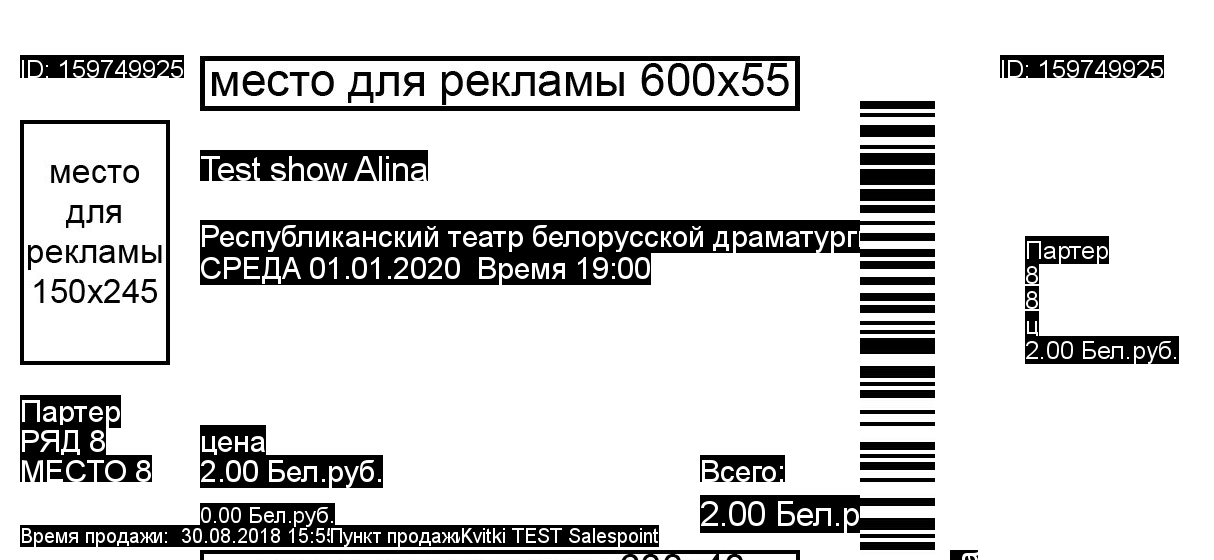
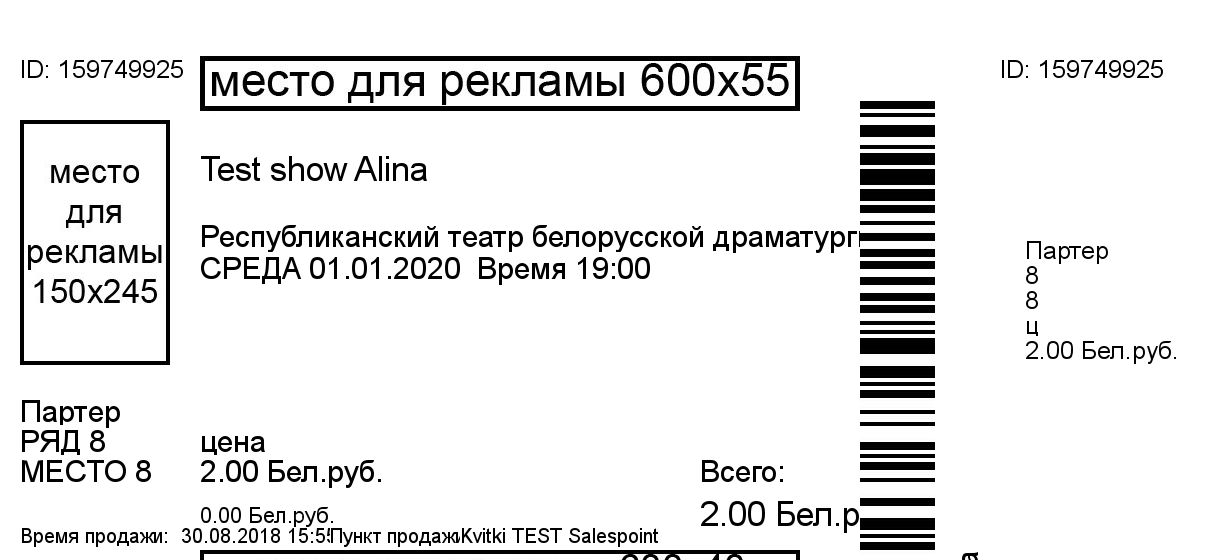
transparent texts

diff --git a/_ticket/_bitmap/__init__.py b/_ticket/_bitmap/__init__.py
@@ -59,9 +59,9 @@ class BMPPrint:
     def _placeText(self, font_name, font_size, x, y, text, rotate=0):
         print(font_name, font_size)
         font = ImageFont.truetype(font_name+'.ttf', font_size)
-        img_txt = Image.new('RGB', font.getsize(text))
+        img_txt = Image.new('RGBA', font.getsize(text))
         img_drw = ImageDraw.Draw(img_txt)
-        img_drw.text((0, 0), text,  font=font, fill="#fff")
+        img_drw.text((0, 0), text,  font=font, fill="#000")
         rotated_txt = img_txt.rotate(rotate, expand=1)
         self.image.paste(rotated_txt, (x, y))
 
@@ -110,9 +110,9 @@ class BMPPrint:
 
     def _startDocument(self, page_settings):
         self.image = Image.new(
-            'RGB',
+            'RGBA',
             (page_settings['width']['px'], page_settings['height']['px']),
-            color='#fff')
+            color=(255,0,0,0))
         self.draw = ImageDraw.Draw(self.image)
 
     def _printDocument(self, out_fn):
